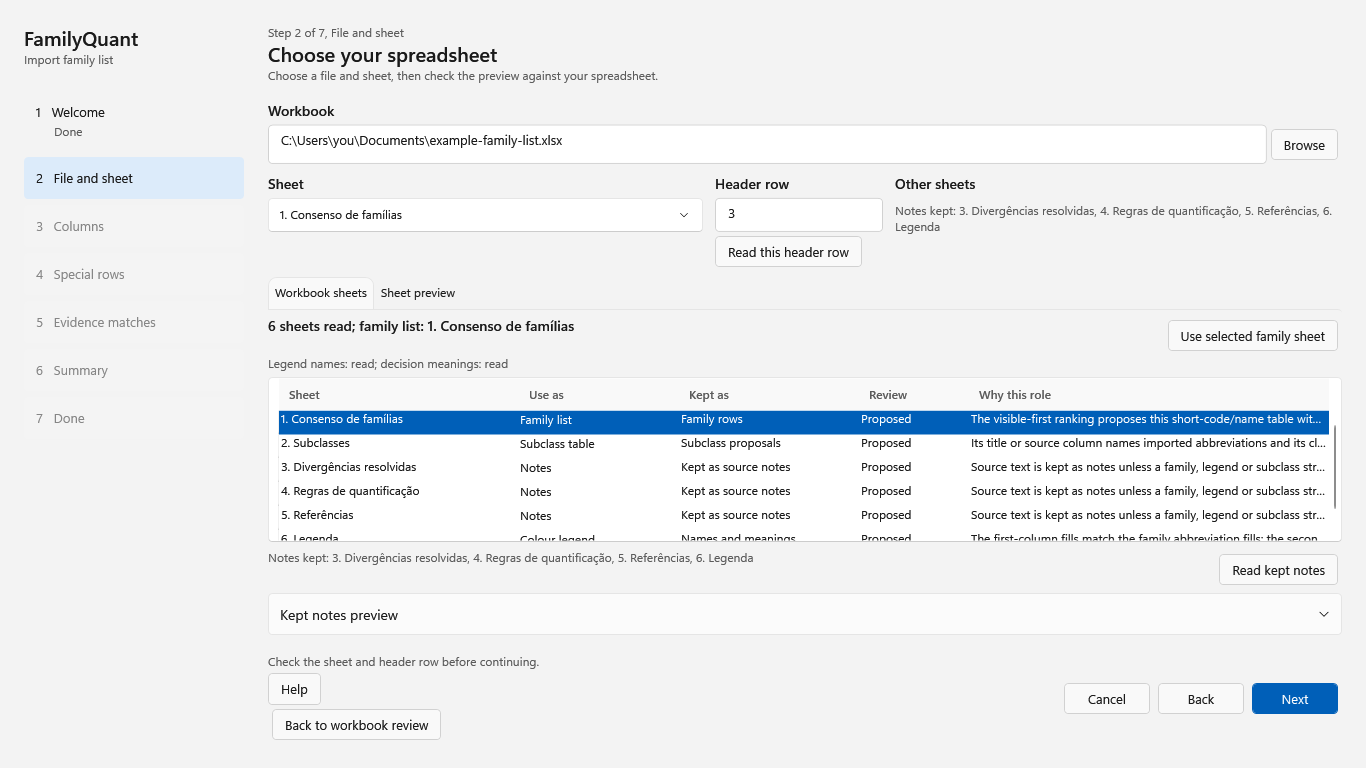
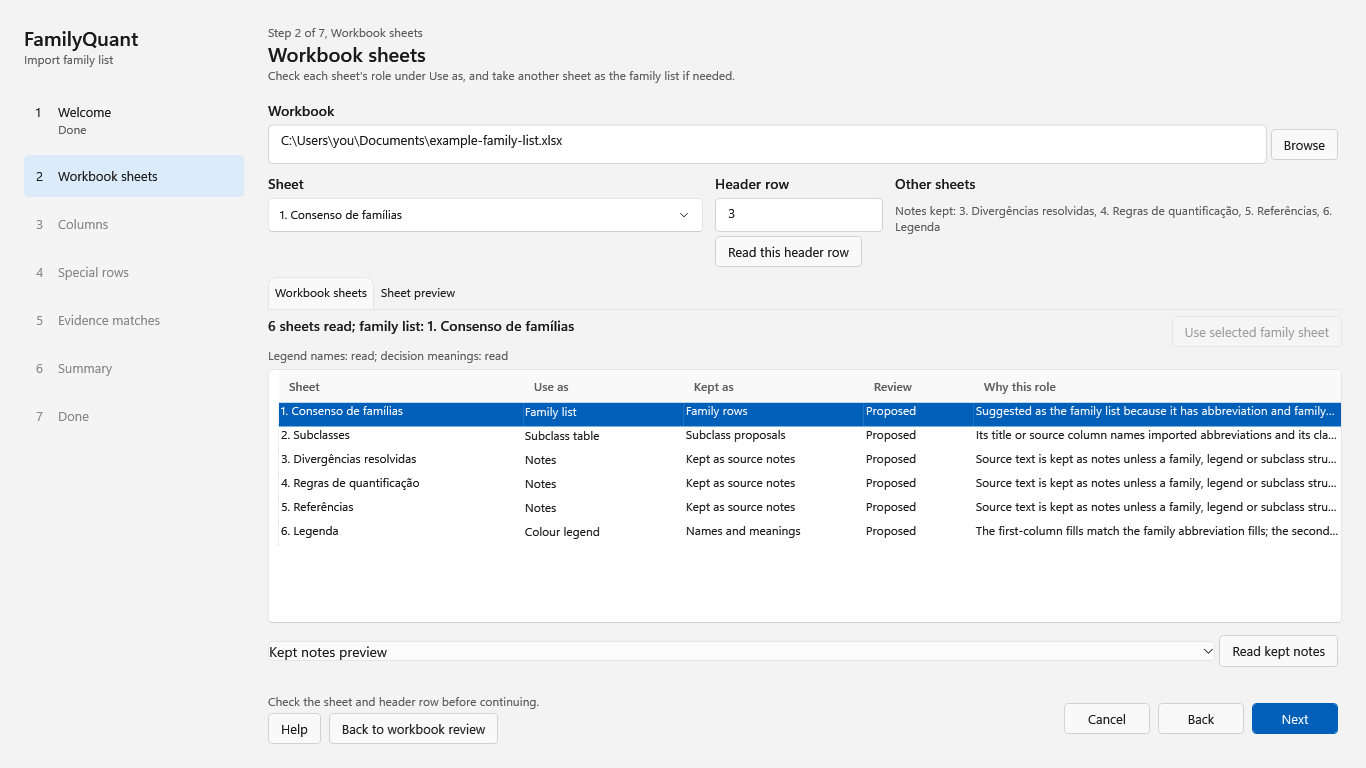
Z16a8b Every picture retaken once on the code-final release, and the chapter brought to it
On fq/v2111-site after merging fq/v2111-release 57292045 (code-final: Z16a9d, Z16a3b, Z16a3c, Z16a13, the Argon walk 2 fixes Z12p2f1 to Z12p2f3, Z12p5y1, Z12p5y2, Z16a15; clean). All fourteen pictures retaken once there, light, 1366 x 768; three runs byte-identical.

What the pages now show, and the chapter now says: Review your workbook marks each box with how many items are proposed and whether any need your choice or are optional to check, outlines the boxes that need her, and says 6 choices need review on the example (the four decision labels the legend leaves open, the row naming four families, the repeated LEC); items only optional to check (Pfam and evidence matches, Subclass proposals) do not hold up Accept and import. Step 2 is called Workbook sheets once a workbook is read, so that part is titled 2. Workbook sheets. Subclass proposals: a polarity read only from a column heading is an uncertain proposal, so every subclass of the example starts Not selected with its rules unticked (Uncertain proposal, Proposal explanation, Original rule cells); she ticks Include subclass and Include rule after checking Required Pfam or Absent Pfam. The Summary's line of counts names families to quantify, merged and not a family. The decision sentences (four labels left empty) still hold and stay. The release's own chapter edits (3. Review spreadsheet decisions; double-click to edit a stored evidence label) are kept.
[…]

diff --git a/FamilyQuant/FamilyListImportGuide.cs b/FamilyQuant/FamilyListImportGuide.cs
@@ -42,14 +42,14 @@ public static class FamilyListImportGuide
         new FamilyListImportGuideSection("workbook", "Review your workbook", "02-workbook.png", "Review your workbook: what the example's six sheets give, with the choices still waiting for you.", new[]
         {
             "When you open a workbook, with Browse, by dropping it on File and sheet, or with Try with the example, FamilyQuant reads every sheet before you choose anything and opens on Review your workbook. It tells the sheets apart by their structure, never by their names: the family list, a colour legend, a subclass table, and sheets of notes.",
-            "The page has one box for each part, with what was found and how many items are proposed or still to review: Workbook sheets, Family list and columns, Source categories, Decision labels, Family rows, Pfam and evidence matches, Subclass proposals and Source notes. Review in a box opens that part's page of the wizard, described below; Back to workbook review, or Review workbook on the Summary, brings you back here. The tabs below the boxes list the parts themselves: Families, Columns, Source categories, Decisions, Special rows, Pfam, Subclasses, Notes, and All findings, where each finding shows its state, its reason and the cells it comes from.",
-            "Whatever the wizard is not sure of is left for you and listed below the tabs; it never guesses. In the example, the line says 10 choices need review, about the four decision labels the legend leaves open, the row that names four families and the repeated abbreviation LEC. Review findings lists them all. Anything the wizard cannot place is shown as Could not place.",
-            "Accept and import stays unavailable while such a choice is open. When you press it, it accepts everything the page shows, exactly as shown, and imports it as one change: that press is your confirmation, and nothing is set before it. The line at the bottom says so: Nothing has changed yet. Accept and import keeps one Undo step.",
+            "The page has one box for each part, with what was found, how many items are proposed, and whether any need your choice or are optional to check: Workbook sheets, Family list and columns, Source categories, Decision labels, Family rows, Pfam and evidence matches, Subclass proposals and Source notes. Review in a box opens that part's page of the wizard, described below; Back to workbook review, or Review workbook on the Summary, brings you back here. The tabs below the boxes list the parts themselves: Families, Columns, Source categories, Decisions, Special rows, Pfam, Subclasses, Notes, and All findings, where each finding shows its state, its reason and the cells it comes from.",
+            "Whatever the wizard is not sure of is left for you; it never guesses. A box with something that needs your choice is outlined, and the line below the tabs names the first one. In the example it says 6 choices need review: the four decision labels the legend leaves open, the row that names four families and the repeated abbreviation LEC. Review findings lists them all. Anything the wizard cannot place is shown as Could not place.",
+            "Accept and import stays unavailable while a choice is needed; items that are only optional to check, such as the subclass proposals, do not hold it up. When you press it, it accepts everything the page shows, exactly as shown, and imports it as one change: that press is your confirmation, and nothing is set before it. The line at the bottom says so: Nothing has changed yet. Accept and import keeps one Undo step.",
             "A workbook of another shape, such as a single sheet, or a list with no legend and no decisions, is read the same way from its structure and shows only the parts it has.",
         }),
-        new FamilyListImportGuideSection("file", "2. File and sheet", "02-workbook-map.png", "Workbook sheets: the six sheets of the example, each with the role proposed for it.", new[]
+        new FamilyListImportGuideSection("file", "2. Workbook sheets", "02-workbook-map.png", "Workbook sheets: the six sheets of the example, each with the role proposed for it.", new[]
         {
-            "Review on Workbook sheets opens this page on Workbook sheets: each sheet of the workbook, hidden ones too, with the role proposed for it under Use as: Family list, Colour legend, Subclass table or Notes. Kept as says what each sheet gives the import, such as Kept as source notes for a sheet of notes, and Why this role gives the reason, read from the sheet's shape, never from its name. Review shows Proposed, or Review role for a sheet the wizard is not sure of; check that one.",
+            "Once a workbook is read, step 2, File and sheet, is called Workbook sheets, and Review on Workbook sheets opens it on its Workbook sheets tab: each sheet of the workbook, hidden ones too, with the role proposed for it under Use as: Family list, Colour legend, Subclass table or Notes. Kept as says what each sheet gives the import, such as Kept as source notes for a sheet of notes, and Why this role gives the reason, read from the sheet's shape, never from its name. Review shows Proposed, or Review role for a sheet the wizard is not sure of; check that one.",
             "The line above the table names the family list, and the line below it says whether the legend's names and the meanings of the decision labels were read. To change a role, choose another under Use as; to take another sheet as the family list, select it and press Use selected family sheet. The proposal is read again with your choice, and the workbook and the project stay unchanged. When two sheets could each be the family list, the line says choose the family list, and neither Next nor Accept and import goes on until you choose; the wizard never takes the first one for you.",
             "A colour legend is a sheet whose first column carries the same cell colours as the family list, with the meaning of each colour beside it; when its labels are the values of one column, it also explains your decision labels. In the example, 6. Legenda names the colour of each decision and says what each decision means.",
             "Sheets with no family rows, like the example's divergences, quantification rules and references, are notes, and the legend's own text is kept with them. Notes kept names them; Read kept notes shows their text in full, and Kept notes preview shows the start of it. They are imported with the panel as source notes, shown under Source notes in the panel editor and listed in the Methods of the report. They are never read as families or as rules.",
@@ -106,18 +106,18 @@ public static class FamilyListImportGuide
         new FamilyListImportGuideSection("subclasses", "Subclass proposals", "05-subclasses.png", "Review subclass proposals: Com hemopexina of MMP, with its two Pfam rules proposed from 2. Subclasses.", new[]
         {
             "A subclass table is a sheet that names abbreviations of your list, in its title or in a column, with one row for each subclass and the Pfam domains that define it, like the example's 2. Subclasses. Review on Subclass proposals opens Review subclass proposals: the subclasses grouped by family, and for the one you select its Family key, Subclass key, Display name and Pfam rules.",
-            "Each rule is only a proposal: Required Pfam, a domain the subclass must have, or Absent Pfam, one it must not have, and only for Pfam domains found in the evidence stored in this project. Whether a domain is required or absent is read from the column headings of the table, like the example's Domínios Pfam exigidos and Domínios ausentes, so Com hemopexina requires Hemopexin and Sem hemopexina proposes it as absent; when a heading and the cell's own words disagree, the rule is left out for you. Still check each rule before accepting. Text the wizard cannot read as a rule stays with the subclass as its notes, as written.",
-            "The subclasses and rules the wizard is sure of arrive in the draft with Include subclass and Include rule ticked; a subclass it is not sure of, or a rule it cannot settle, starts left out for you to decide. Check each one: Leave out takes a subclass or a rule out, and the list under a rule changes Required Pfam to Absent Pfam. Check choices checks the draft, and Keep subclass choices or Back returns to Review your workbook. Nothing becomes a rule until you press Accept and import.",
+            "Each rule is only a proposal: Required Pfam, a domain the subclass must have, or Absent Pfam, one it must not have, and only for Pfam domains found in the evidence stored in this project. The column headings of the table suggest whether a domain is required or absent, like the example's Domínios Pfam exigidos and Domínios ausentes, so Com hemopexina is proposed with Hemopexin required and Sem hemopexina with it absent. A polarity read only from a heading is an uncertain proposal, and a heading that disagrees with the cell's own words leaves the rule unsettled. Still check each rule before accepting. Text the wizard cannot read as a rule stays with the subclass as its notes, as written.",
+            "A subclass or rule the wizard is not sure of starts Not selected and is marked Uncertain proposal; on the example that is every one, because their polarity comes from the column headings. Proposal explanation and Original rule cells show why and where from. To keep a subclass, tick Include subclass, then Include rule for each rule you agree with, after checking Required Pfam or Absent Pfam in its list; Leave out takes one out again. Check choices checks the draft, and Keep subclass choices or Back returns to Review your workbook. Nothing becomes a rule until you press Accept and import.",
             "The Subclass names column of the family list names the subclasses you expect for each family, and each one is listed here. Subclasses you include are imported with the panel; the ones you leave out are not.",
         }),
         new FamilyListImportGuideSection("summary", "6. Summary", "06-summary.png", "The list as it will be imported; nothing has changed yet.", new[]
         {
-            "Name the panel, then read the line of counts (families, rows split, skipped and renamed, matching choices), the source sheet, and the panel this import replaces. The table lists every family with its names, decision, colour category (in the Colour column) and matching choice; View source notes shows the original columns kept for it.",
+            "Name the panel, then read the line of counts (families to quantify, merged and not a family, rows split, skipped and renamed, matching choices), the source sheet, and the panel this import replaces. The table lists every family with its names, decision, colour category (in the Colour column) and matching choice; View source notes shows the original columns kept for it.",
             "Review workbook takes you back to Review your workbook, where Accept and import imports the panel. Back keeps your choices, and Cancel changes nothing.",
         }),
         new FamilyListImportGuideSection("accept", "6. Accept and import", "06-accept.png", "Review your workbook with every choice made: Accept and import is available.", new[]
         {
-            "Once every open choice is made, the boxes say 0 to review for the parts that needed you, and Accept and import becomes available. In the example, the Pfam and evidence matches box can still show items to review: those are optional and do not hold up the import.",
+            "Once every needed choice is made, the boxes that needed you say no choices needed, and Accept and import becomes available. In the example, Pfam and evidence matches and Subclass proposals still show items optional to check: they do not hold up the import, and subclasses you did not include are not imported.",
             "Accept and import replaces the current panel, if any, in one step. Just before, the workbook and the project are checked again; if either changed, nothing is imported. If a ticked match covers more than half of the database's entries, it asks once before importing.",
         }),
         new FamilyListImportGuideSection("done", "7. Done", "07-done.png", "The list is imported; the workbook and the protein grouping are unchanged.", new[]

diff --git a/FamilyQuant.Tests/Program.ImportGuideScreens.cs b/FamilyQuant.Tests/Program.ImportGuideScreens.cs
@@ -138,7 +138,8 @@ internal static partial class Program
                 model.ReviewingDecisions && model.Decisions.Count == 8 && model.Decisions.All(d => d.Meaning.Length > 0 && !d.Confirmed)
                 && model.Decisions.Count(d => d.Decision == null) == 4
                 && model.Decisions.Any(d => d.Decision == FamilyPanelDecision.MergeIntoAnotherFamily && d.MergeTarget == "LEC") && !model.CanNext,
-                string.Join("; ", model.Decisions.Select(d => d.Source + " -> " + (d.Decision?.ToString() ?? "(empty)") + " " + d.MergeTarget)));
+                "reviewing " + model.ReviewingDecisions + ", can next " + model.CanNext + "; " + string.Join("; ", model.Decisions.Select(d => d.Source + " -> "
+                    + (d.Decision?.ToString() ?? "(empty)") + " " + d.MergeTarget + (d.Confirmed ? " confirmed" : "") + " [" + d.Meaning + "]")));
             Shot("03-columns-decisions");
             // Her choices for the four labels the legend leaves empty, as a reader of this example would make them: the
             // families out of the total stay out, and the optional, conditional and pending ones are kept for now.
@@ -191,6 +192,11 @@ internal static partial class Program
                 && model.SubclassChoices.Single(c => c.Family == "MMP" && c.Title == "Com hemopexina").Rules.Single(r => r.Accession == "PF00045").Kind == ImportSubclassRuleKind.RequiredPfam,
                 string.Join("; ", model.SubclassChoices.Where(c => c.Family == "MMP").Select(c => c.Title + " " + string.Join(",", c.Rules.Select(r => r.Accession + " " + r.Kind + (r.Use ? "*" : ""))))));
             Shot("05-subclasses");
+            // Z16a8b (Z16a12b, Z16a9c): a polarity read only from a column heading is an uncertain proposal, so every subclass of the
+            // example starts Not selected with its rules unticked; she includes each one she wants.
+            Check("guide: every subclass of the example starts Not selected, its heading-derived rules uncertain and unticked",
+                model.SubclassChoices.All(c => !c.Use && c.State == "Not selected") && model.SubclassChoices.Where(c => c.Family == "MMP").SelectMany(c => c.Rules).All(r => !r.Use && r.IsUncertain),
+                string.Join("; ", model.SubclassChoices.Select(c => c.Family + "/" + c.Title + " " + c.State)));
             model.Back(); PumpDispatcher();
             Check("guide: back on Review your workbook, Accept and import is available once her choices are made",
                 model.ReviewingWorkbook && model.CanAcceptWorkbook && !model.WorkbookHasReviewProblems && file.FamilyPanel == null, model.WorkbookReviewStatus);

diff --git a/FamilyQuant.Tests/Program.FamilyListImportGuide.cs b/FamilyQuant.Tests/Program.FamilyListImportGuide.cs
@@ -51,7 +51,8 @@ internal static partial class Program
             && text.Contains("because they are your own statement", StringComparison.Ordinal) && text.Contains("Untick any you do not want", StringComparison.Ordinal)
             && text.Contains("Nothing becomes a rule until you press Accept and import", StringComparison.Ordinal)
             // Z16a12: polarity from the column headings, and her check of each rule still asked for.
-            && text.Contains("Whether a domain is required or absent is read from the column headings", StringComparison.Ordinal)
+            && text.Contains("suggest whether a domain is required or absent", StringComparison.Ordinal)
+            && text.Contains("A polarity read only from a heading is an uncertain proposal", StringComparison.Ordinal)
             && text.Contains("Still check each rule before accepting", StringComparison.Ordinal) && text.Contains("never read as families or as rules", StringComparison.Ordinal));
         var pictured = FamilyListImportGuide.Pictured.ToList();
         var loaded = pictured.Select(s =>
@@ -88,6 +89,8 @@ internal static partial class Program
             "Source categories", "Decision labels", "Family rows", "Pfam and evidence matches", "Subclass proposals", "All findings", "Could not place",
             "Families", "Special rows", "Subclasses", "Review subclass proposals", "Include subclass", "Include rule", "Leave out", "Required Pfam",
             "Absent Pfam", "Check choices", "Keep subclass choices", "Family key", "Subclass key", "Display name", "Pfam rules", "Column with coloured cells",
+            // Z16a8b (Z16a9c, Z16a9d, Z16a12b): the code-final subclass review.
+            "Not selected", "Uncertain proposal", "Proposal explanation", "Original rule cells",
         };
         Check("the chapter names the wizard's controls and choices with the program's own words", labels.All(text.Contains) && text.Contains("File > Save", StringComparison.Ordinal),
             string.Join(", ", labels.Where(l => !text.Contains(l))));
